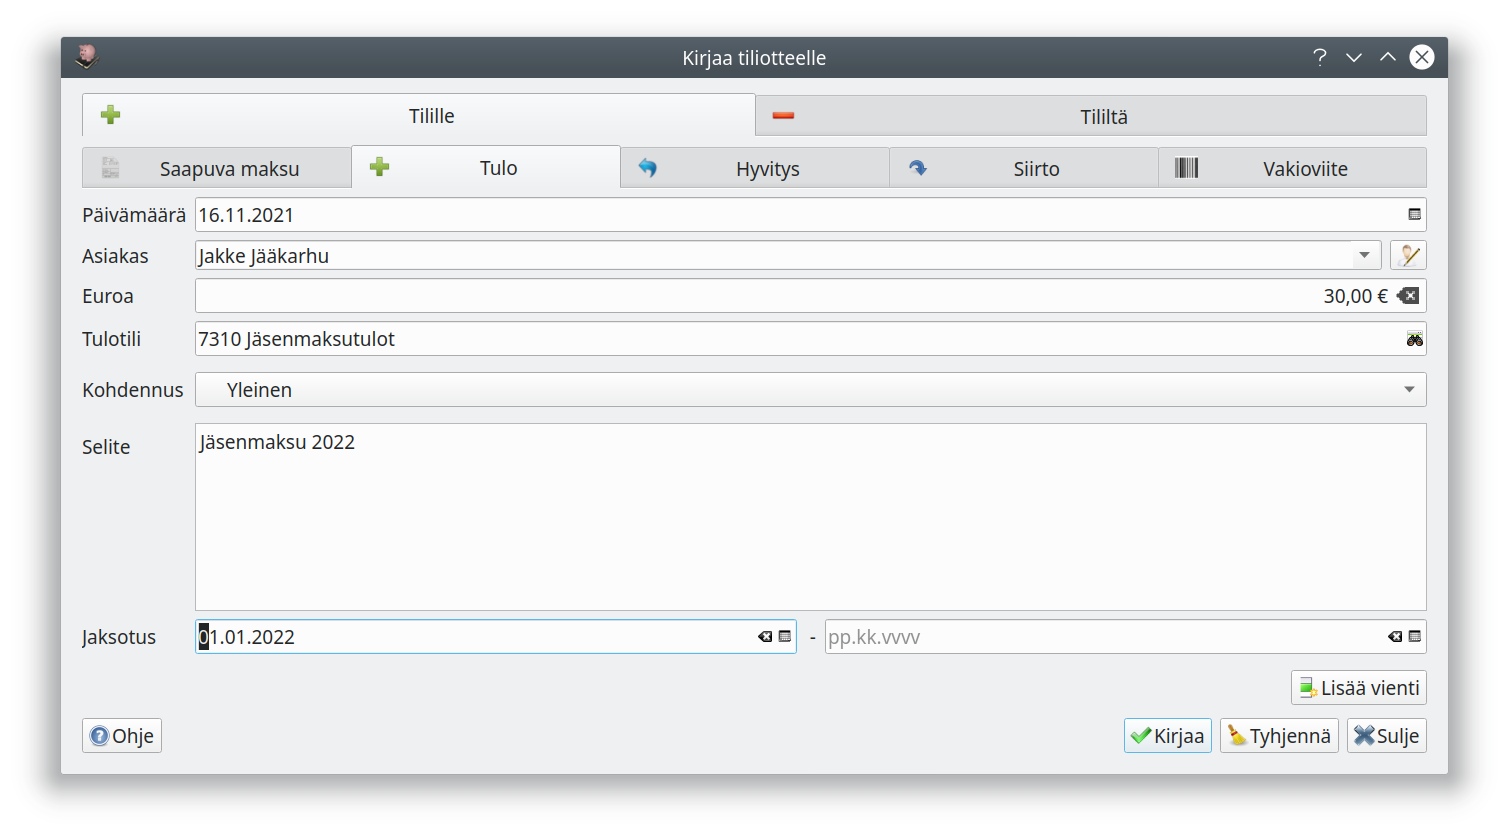
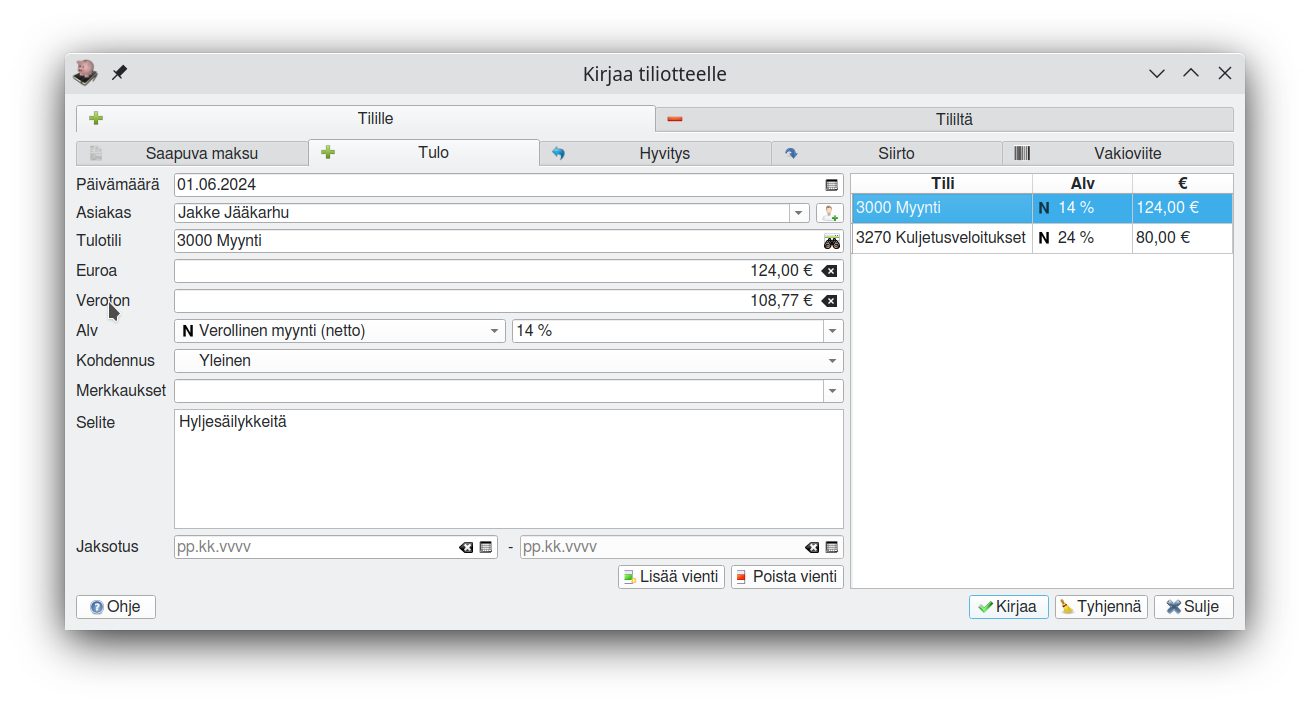
Ohjeiden päivitys 5.4

Changed region(s): [[0.0, 0.0311, 0.9771, 0.9646], [0.7023, 0.1245, 0.7634, 0.1867], [0.3053, 0.1867, 0.3664, 0.2489]]

diff --git a/content/fi/docs/kirjaus/tiliote/tapahtumat.md b/content/fi/docs/kirjaus/tiliote/tapahtumat.md
@@ -5,15 +5,30 @@ weight: 40
 description: >
   Kirjaa tilitapahtumia joko kirjaustoiminnolla tai suoraan ruudukkoon kirjoittamalla. Tilitapahtumat voivat olla laskujen maksuja, tuloja, menoja, siirtoja tai hyvityksiä.
 keywords: ["laskunmaksu"]
+versio: 5.4
 ---
 
 **Kirjaa tilitapahtumia**-painikkeella pääset tilitapahtumien kirjausikkunaan. Voit kirjata peräkkäin useampia tilitapahtumia painamalla jokaisen tapahtuman jälkeen **Kirjaa**-nappia. **Sulje** lopuksi kirjausikkuna, tarkasta tiliotteen kirjaukset ja tallenna tiliote.
+
+{{<alert title="Etumerkin käyttö" color="info">}}
+
+Kirjattaessa suoraan ruudukkoon kirjataan menot miinusmerkkisinä.
+
+Kirjattaessa erillisellä valintaikkunalla ei etumerkkiä käytetä, vaan valinta tehdään ylälaidan **Tilille**/**Tililtä**-välilehdillä.
+
+{{</alert>}}
+
+![](/img/fi/kirjaus/tiliote/riveille.png)
+
+Yksinkertaiset menot, tulot ja siirrot voit kirjata myös suoraan tilioteruudukolle.
 
 {{<alert title="Kirjaaminen tiliotteelta">}}
 
 Tiliotteelta voit kirjata ne tulot, menot, hyvitykset ja siirrot, joista käy ilmi myös maksun peruste. Jos maksusta on olemassa erillinen tosite, kirjaa maksu sen perusteella.
 
-Erityisesti elinkeinotoiminnassa edellytetään, että myynneistä ja ostoista on laadittava kirjanpitoon liitettävä lasku. Jotta ostaja saa vähentää arvonlisäveron kirjanpidostaan, on laskun täytettävä [verottajan laskuvaatimukset](https://www.vero.fi/syventavat-vero-ohjeet/ohje-hakusivu/48090/laskutusvaatimukset-arvonlis%C3%A4verotuksessa/). Tällaisista verollisista maksuista voidaan tiliotteelta kirjata lähinnä pankin perimä verkkolaskujen välitysmaksu jonka arvonlisävero on erikseen mainittu tiliotteeseen.
+Erityisesti elinkeinotoiminnassa edellytetään, että myynneistä ja ostoista on laadittava kirjanpitoon liitettävä lasku. Jotta ostaja saa vähentää arvonlisäveron kirjanpidostaan, on laskun täytettävä [verottajan laskuvaatimukset](https://www.vero.fi/syventavat-vero-ohjeet/ohje-hakusivu/48090/laskutusvaatimukset-arvonlisaverotuksessa3/). 
+
+Kitsaassa ei ole mahdollista tehdä tiliotetositteella arvonlisäverollisia kirjauksia tasetileille. **Käyttöomaisuuden osto ja myynti** on kirjattava erillisellä tositteella. Voit muodostaa helposti erillisen tositteen tiliotteen rivin perusteella **Tosite**-painikkeella.
 
 {{</alert>}}
 
@@ -59,7 +74,7 @@ Tällä välilehdellä kirjaat laskuperusteisesti kirjattujen ostolaskujen suori
 
 #### Meno
 
-![](/img/fi/kirjaus/tiliote/meno.png)
+![](/img/fi/kirjaus/tiliote/menoa.png)
 
 Tällä välilehdellä kirjaat menot, joista ei ole muuta tositetta kuin tiliote. **Lisää vienti**-panikkeella voit jakaa tilioterivin useammaksi vienniksi esimerkiksi eri kirjanpitotileille.
 

diff --git a/content/fi/docs/asetukset/tilinpaatos.md b/content/fi/docs/asetukset/tilinpaatos.md
@@ -87,6 +87,7 @@ Pelkkä **#** lopettaa ehdon, ja sen jälkeen rivit tulostuvat jälleen kaikilla
   K | Erittely kustannuspaikoittain
   P | Erittely projekteittain
   B | Budjettivertailu
+- `@?` määrittää laskentaehdon, jolla seuraavat rivit tulostuvat
 - `@henkilosto@` lisää taulukon henkilöstön määrästä tällä ja edellisellä tilikaudella
 
 ```
@@ -94,6 +95,21 @@ Pelkkä **#** lopettaa ehdon, ja sen jälkeen rivit tulostuvat jälleen kaikilla
 <h2>Henkilöstön määrä</h2>
 @henkilosto@
 ```
+
+**{{ }}**-merkkien välissä voidaan esittää laskentakaavoja tai muuttujia
+- Muuttujat *alkupvm*, *loppupvm*, *edkausi.alkupvm*, *edkausi.loppupvm*, *kotipaikka*, *pvm*, *kayttaja.nimi*
+- Laskentakaavassa voidaan tilejä ja tiliryhmiä esittää samalla tavalla kuin raporteilla, tilin numeroa edeltää kuitenkin kirjain
+  - **e** - saldo tämän tilikauden lopussa
+  - **s** - saldo tämän tilikauden alussa
+  - **d** - saldon muutos tämän tilikauden aikana
+  - **E** - saldo edeltävän tilikauden lopussa
+  - **S** - saldo edeltävän tilikauden alussa
+  - **D** - saldon muutos edeltävän tilikauden aikana
+
+**^^^^** laskee taulukon alimmalle riville kyseisen sarakkeen sarakesumman.
+
+Jos laskentataulukossa jollakin rivillä kaikkiin paitsi ensimmäiseen soluun tulee lukuarvoksi **0,00 €**, jätetään tämä rivi tulostamatta
+
 
 {{<alert title="DevTool">}}
 Tilikartan kaikkiin asetuksiin pääsee käsiksi **DevTool**-työkalulla, joka käynnistyy painamalla <kbd>Ctrl</kbd>+<kbd>D</kbd>. Käytä työkalua vain todelliseen tarpeeseen!

diff --git a/content/fi/docs/kirjaus/tiliote/kasin.md b/content/fi/docs/kirjaus/tiliote/kasin.md
@@ -8,7 +8,9 @@ description: >
 
 Aloita valitsemalla tositetyypiksi **Tiliote**. Valitse myös **pankkitili**, jolle teet kirjauksia, sekä tiliotteen **ajanjakso**.
 
-Lisää tiliotteen rivit **Kirjaa tilitapahtumia**-painikkeella.
+![](/img/fi/kirjaus/tiliote/riveille.png)
+
+Voit kirjata tilitapahtumia joko suoraan ruudukkoon, tai lisätä rivejä **Kirjaa tilitapahtumia**-painikkeella.
 
 ![](/img/fi/kirjaus/tiliote/ahven2.png)
 
@@ -16,4 +18,8 @@ Lisää tiliotteen rivit **Kirjaa tilitapahtumia**-painikkeella.
 Vihreät rivit ovat tiliotteen ajanjaksolla kyseiselle pankkitilille muilla tositteilla tehtyjä kirjauksia. Nämä rivit pitäisi löytyä myös tiliotteelta, eikä niitä tiliotetta kirjattaessa näytetä enää uudelleen.
 
 **Tosite**-painikkeella voit avata riviin liiteyn tositteen toiseen ikkunaan. Voit halutessasi piilottaa nämä vihreät rivit ajanjakson valinnan oikealla puolella olevalla painikkeella.
+{{</alert>}}
+
+{{<alert title="Menojäännöspoistettavat hankinnat">}}
+Käyttöomaisuuden verollisesta ostosta tai myynnistä on tehtävä oma tositteensa **Tosite**-painikkeella.
 {{</alert>}}
